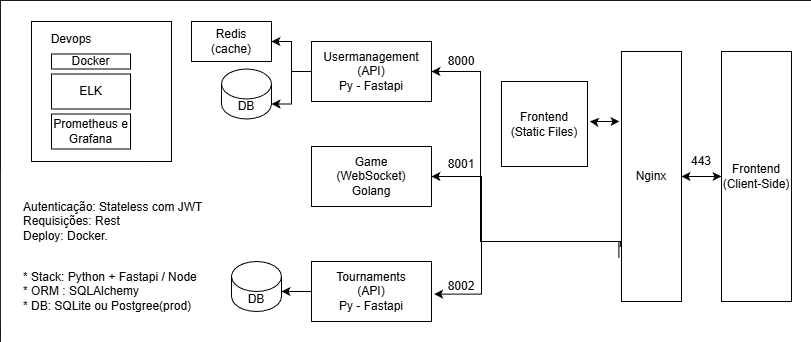
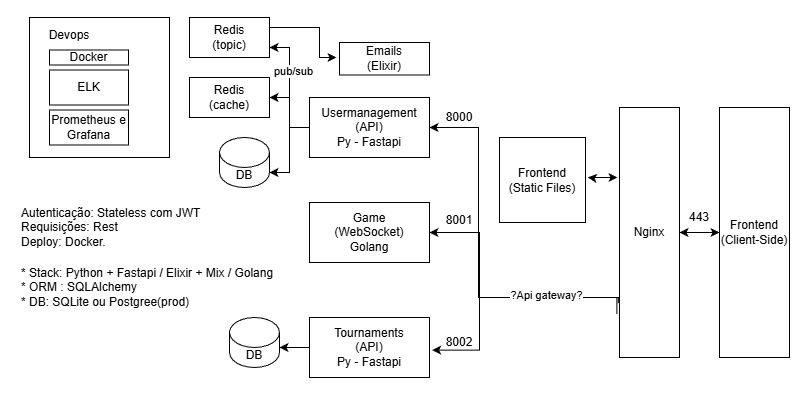
docs: new architeture img and md

diff --git a/docs/architecture.md b/docs/architecture.md
@@ -1,0 +1,233 @@
+# Arquitetura do Projeto
+
+![Arquitetura](./architecture.png)
+
+## Visão Geral
+O projeto de microserviços construído com múltiplas linguagens e frameworks, orquestrado com Docker Compose.
+A arquitetura segue um padrão de API-first com separação clara de responsabilidades entre serviços especializados.
+
+### Stack Tecnológico
+- **Backend**: Python, Elixir, Go
+- **Frontend**: TypeScript/React com Vite
+- **Infraestrutura**: Docker, Docker Compose, Nginx
+- **Autenticação**: JWT (Stateless)
+- **Message Broker**: Redis (pub/sub e cache)
+- **Database**: SQLite (dev), PostgreSQL (prod)
+- **DevOps**: ELK Stack, Prometheus e Grafana
+
+---
+
+## Serviços
+
+### 1. Usermanagement Service
+**Linguagem**: Python 3.13+
+**Framework**: FastAPI  
+**Porta**: 8000 (interno), `/api/users/` (via Nginx HTTPS)
+
+#### Responsabilidades
+- Gerenciamento de usuários (CRUD)
+- Autenticação e autorização (com base no JWT)
+- Validação de email
+- Hashing seguro de senhas (bcrypt)
+
+#### Stack de Dependências
+- **FastAPI**: Framework web assíncrono
+- **Uvicorn**: Servidor ASGI
+- **SQLAlchemy**: ORM para banco de dados
+- **asyncpg**: Driver PostgreSQL assíncrono
+- **aiosqlite**: Driver SQLite assíncrono
+- **Redis**: Cliente para cache e eventos
+- **Pydantic**: Validação de dados
+- **passlib[bcrypt]**: Hashing de senhas
+- **email-validator**: Validação de emails
+
+#### Arquitetura Interna (Clean Architecture)
+```
+src/
+├── controller/          # Camada de apresentação (Rotas FastAPI)
+│
+├── core/               # Configurações e utilitários
+│   ├── settings.py     # Variáveis de ambiente
+│   ├── exception_handlers.py  # Tratamento de exceções
+│   └── utils.py        # Funções utilitárias
+├── domain/             # Lógica de negócio
+│   ├── models/         # Modelos de domínio
+│   ├── schemas/        # DTOs
+│   └── services/       # Serviços
+├── infrastructure/
+│   └── event_publisher.py  # Publicação de eventos
+└── di_config.py        # Injeção de dependências
+```
+
+---
+
+### 2. Emails Service
+**Linguagem**: Elixir 1.14+
+**Framework**: Plug (Cowboy)
+**Porta**: 4001 (externo)
+
+#### Responsabilidades
+- Envio de emails assíncrono
+- Subscriber de eventos Redis (pub/sub)
+
+#### Padrão Event-Driven
+O serviço de emails funciona como subscriber de eventos:
+1. User Management publica evento no Redis quando usuário se registra/altera email
+2. Emails Service escuta eventos no canal Redis
+3. Processa e envia email
+
+---
+
+### 3. Game Service
+**Linguagem**: Go  
+**Protocolo**: WebSocket 
+**Porta**: 8001
+
+#### Responsabilidades
+- Lógica principal do jogo
+- Gerenciamento de salas de jogo
+- Comunicação em tempo real via WebSocket
+- Sincronização de estado do jogo
+- Broadcast de eventos para múltiplos clientes
+
+#### Características
+- Conexões WebSocket persistentes
+- Estado do jogo em memória
+- Sincronização com serviço de torneios para resultados
+
+---
+
+### 4. Tournament Service
+**Linguagem**: Python 3.13+  
+**Framework**: FastAPI  
+**Porta**: 8002
+
+#### Responsabilidades
+- Gerenciamento de torneios
+- Sistema de matchmaking
+- Persistência de resultados de partidas
+- Rankings e estatísticas de jogadores
+- Histórico de torneios
+
+#### Integração
+- Consome resultados do Game Service
+- Publica eventos para notificações via Email Service
+
+---
+
+## Camada de Infra
+
+### Nginx (Reverse Proxy)
+**Porta**: 443 (HTTPS)
+
+#### Função
+- Ponto único de entrada para o frontend
+- Roteamento de requisições para serviços backend
+- SSL/TLS
+
+#### Roteamento
+```
+https://localhost:443/
+├── / → Frontend (Static Files)
+├── /api/users/ → Usermanagement Service:8000
+└── /api/health → Usermanagement Service:8000
+```
+
+#### Redis
+1. **Cache**: Armazenamento de dados frequentemente acessados
+2. **Message Broker**: Pub/Sub para comunicação entre serviços
+3. **Eventos**: Stream de eventos para auditoria e logs
+
+#### Tópicos Pub/Sub
+- `user:registered` - Novo usuário registrado
+- `user:updated` - Dados de usuário alterados
+- `user:deleted` - Usuário removido
+- `game:finished` - Partida finalizada
+- `tournament:updated` - Torneio atualizado
+
+---
+
+## Frontend
+
+**Tecnologia**: React + TypeScript  
+**Build**: Vite  
+**Porta**: 80 (interno), 443 (via Nginx)
+
+#### Recursos
+- Autenticação JWT armazenada em localStorage
+- WebSocket para comunicação em tempo real do jogo
+
+#### Integração Backend
+- REST API para gerenciamento de usuários
+- WebSocket com Game Service para gameplay
+
+---
+
+## Fluxo de Dados
+
+### Ciclo de Vida de um Usuário
+```
+1. Registro
+   Frontend → Nginx → Usermanagement
+   └─ Valida dados
+   └─ Cria usuário
+   └─ Publica evento "user:registered" no Redis
+   └─ Emails Service recebe evento
+   └─ Envia email de boas-vindas
+
+2. Login
+   Frontend → Usermanagement
+   └─ Valida credenciais
+   └─ Gera JWT
+   └─ Retorna token ao client
+
+3. Jogo
+   Frontend → Game Service (WS)
+   └─ Autentralizado via JWT
+   └─ Conectado a sala de jogo
+   └─ Broadcasting de movimentos
+   └─ Resultado enviado para Tournament Service
+
+4. Torneios
+   Game Service → Tournament Service
+   └─ Salva resultado
+   └─ Atualiza rankings
+   └─ Publica evento de conclusão
+```
+
+---
+
+### Estrutura do Projeto
+
+```
+Transcendence/
+├── backend/
+│   ├── emails-service/      # Serviço de emails (Elixir)
+│   ├── game-service/        # Server de jogo (Go)
+│   ├── tournament-service/  # Gerenciador de torneios (Python)
+│   └── usermanagement-service/  # API de usuários (Python)
+├── frontend/                # Aplicação React (TypeScript)
+├── infra/
+│   ├── docker/             # Dockerfiles e docker-compose.yml
+│   ├── nginx/              # Configurações do Nginx
+│   ├── certs/              # Certificados SSL
+│   └── scripts/
+├── docs/
+└── Makefile
+```
+
+---
+
+## Observabilidade
+
+### Logging
+- Logs estruturados em JSON
+- ELK Stack para centralização
+- Kibana para visualização
+
+### Métricas
+- Prometheus para coleta
+- Grafana para visualização
+- Endpoints `/metrics` em cada serviço
+
+---

diff --git a/readme.md b/readme.md
@@ -29,6 +29,12 @@ make clean   # Remove volumes and cleanup
 make tests   # Run tests locally (needs UV local requirements)
 ```
 
+# Architecture
+![Schema](./docs/architecture.png)
+
 ## Project Structure
+- `backend/emails-service` - Email sender application made in Elixir
 - `backend/usermanagement-service` - User management FastAPI service
+- `backend/game-service` - Core game logic and ws handler
+- `backend/tournament-service` - Matchmaking and tournament information persistence
 - `infra/docker` - Docker configurations
